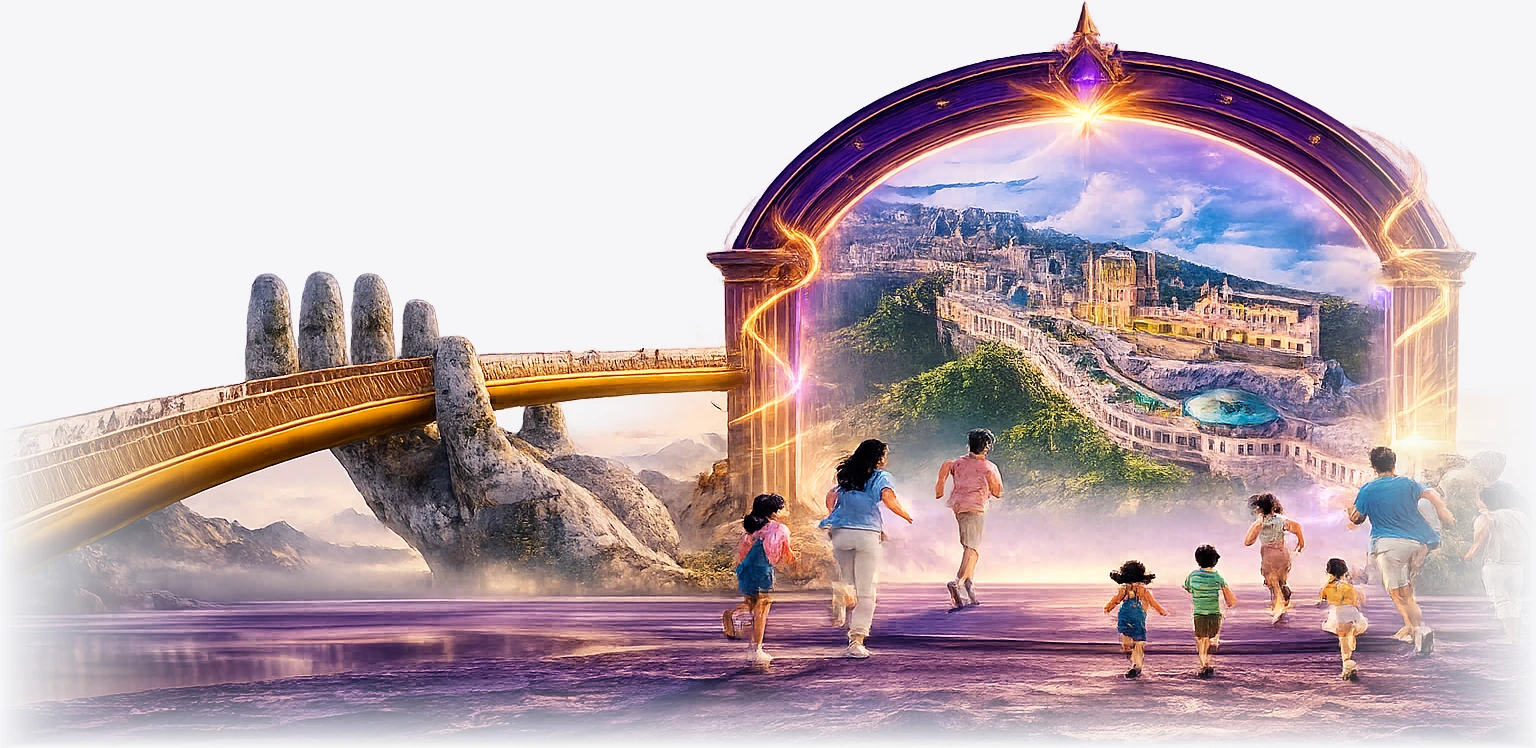
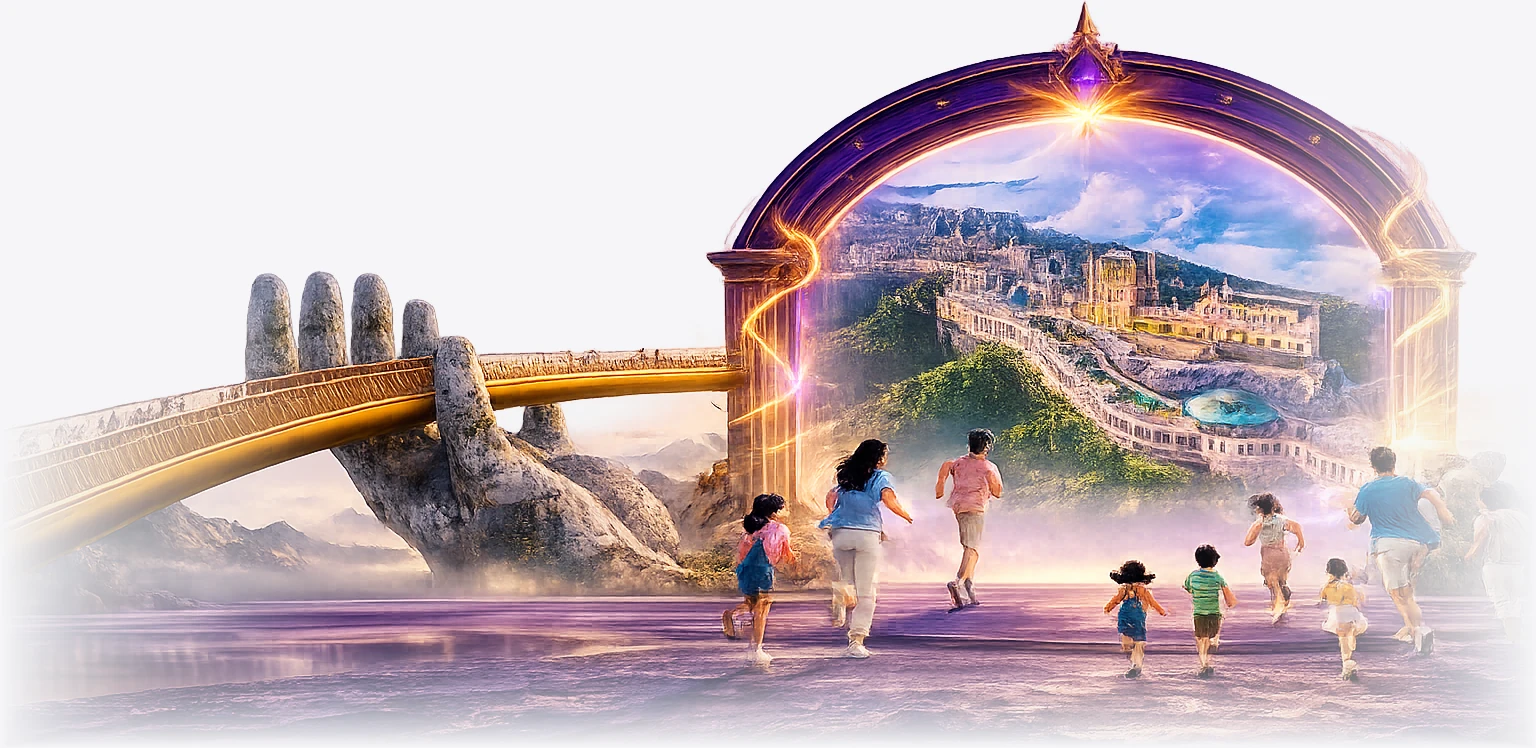
fix: чередование белого и серого, кромка кадра Ба На растворена шире
Две светлые секции шли подряд серыми — «Дананг» и «Ба На», 720+720 через
12px, поле читалось сплошной простынёй. Замер фонов: body #fff, шапка
rgba(22,22,23,0.8), hero чёрный, «Чам» #111, сетка и карусель белые — серым
были именно две соседние секции. «Дананг» переведён в белый: фон его файла
253,252,255, на #f5f5f7 у него был собственный стык в 8 единиц.

Порядок: чёрный hero → белый «Дананг» → серый «Ба На» → тёмный «Чам» → белая
сетка. Текст «Ба На» вернулся по центру над кадром, левое выравнивание
поверх фото отменено. Растворение кромки файла расширено до 22% ширины и
16% высоты, размытие 18px; все четыре кромки — 245,245,247.

Changed region(s): [[0.0312, 0.0922, 0.9688, 0.984]]

diff --git a/index.html b/index.html
@@ -549,22 +549,29 @@
        883px (430 x 2.053) и с каждой стороны оставалось по 278px подложки.
        Кромка непрозрачного прямоугольника на этом фоне и читалась как
        фиолетовая рамка.
-       Решение — как у Apple на странице iPhone: блок ростом с экран, фото
-       вписано целиком и стоит по центру, по бокам от него остаётся подложка.
-       У Apple это не читается заплаткой потому, что продуктовое фото — вырезка
-       без прямоугольной кромки. У нашей иллюстрации кромка есть, поэтому она
-       растворена прямо в файле: альфа спадает линейно на 14% ширины с каждого
-       бока и на 10% высоты снизу, затем размытие 10px. Все четыре кромки
-       файла замерены — ровно 245,245,247, то есть переход в подложку
-       безразрывный, и contain можно применять без полос и рамки.
-       Высота блока штатная (80svh / 640px / calc на мобильном), как у соседних
-       секций: блок умещается в экран и следующий проглядывает снизу.
-       Обрезки нет: contain вписывает кадр целиком. object-fit: fill применять
-       нельзя — именно он растягивал фигуры, а cover в боксе 3.62 против кадра
-       2.053 срезал верх арки.
-       Стык с белым фоном сайта: у секции margin-bottom: var(--sep) = 12px,
-       подложка #f5f5f7 идёт до кромки блока, тёмный фон .tour-section (#111)
-       перекрыт вариантом --light и нигде не проступает. */
+       Конструкция как у Apple на странице iPhone: блок ростом с экран, текст
+       по центру сверху на подложке, кадр вписан целиком под ним. Высота
+       штатная (80svh / 640px / calc), секция умещается в экран и следующая
+       проглядывает снизу.
+       Разница с Apple в самом файле: у них в таких блоках вырезанный объект
+       без фона, у нас прямоугольная сцена. Её кромка видна при любом
+       совпадении фонов — внутри кадра светлая дымка 246, вокруг ровное поле
+       245,245,247, и стык читается линией. Поэтому кромка растворена в файле:
+       альфа спадает на 22% ширины с каждого бока и на 16% высоты снизу,
+       размытие 18px. Все четыре кромки замерены — ровно 245,245,247.
+       Что уже проверено и не подходит: cover в остаток высоты (бокс 3.62
+       против кадра 2.053) срезает верх арки; увеличение высоты блока ломает
+       принцип «секция в экран»; текст поверх кадра требует левого выравнивания
+       (по центру минимум яркости 1 из 255 — тёмная арка) и на apple.com такого
+       нет. Стык с белым фоном сайта даёт margin-bottom: var(--sep) = 12px. */
+    /* «Дананг» — белая подложка, чтобы серое не шло двумя секциями подряд.
+       До появления серого у «Ба На» чередование держалось само: «Дананг» серый,
+       «Ба На» белый. Теперь серый нужен «Ба На», поэтому белым становится
+       «Дананг» — и это ему подходит лучше: фон его файла 253,252,255, то есть
+       почти белый, на #f5f5f7 у него был собственный стык в 8 единиц.
+       Порядок по сайту: чёрный hero → белый «Дананг» → серый «Ба На» →
+       тёмные «Острова Чам» → белая сетка. */
+    #bana-old { background: #fff; }
     #tours { padding-left: 0; padding-right: 0; }
     #tours .tour-section__photo { width: 100%; max-width: none; }
     .tour-section--light .tour-section__content {
